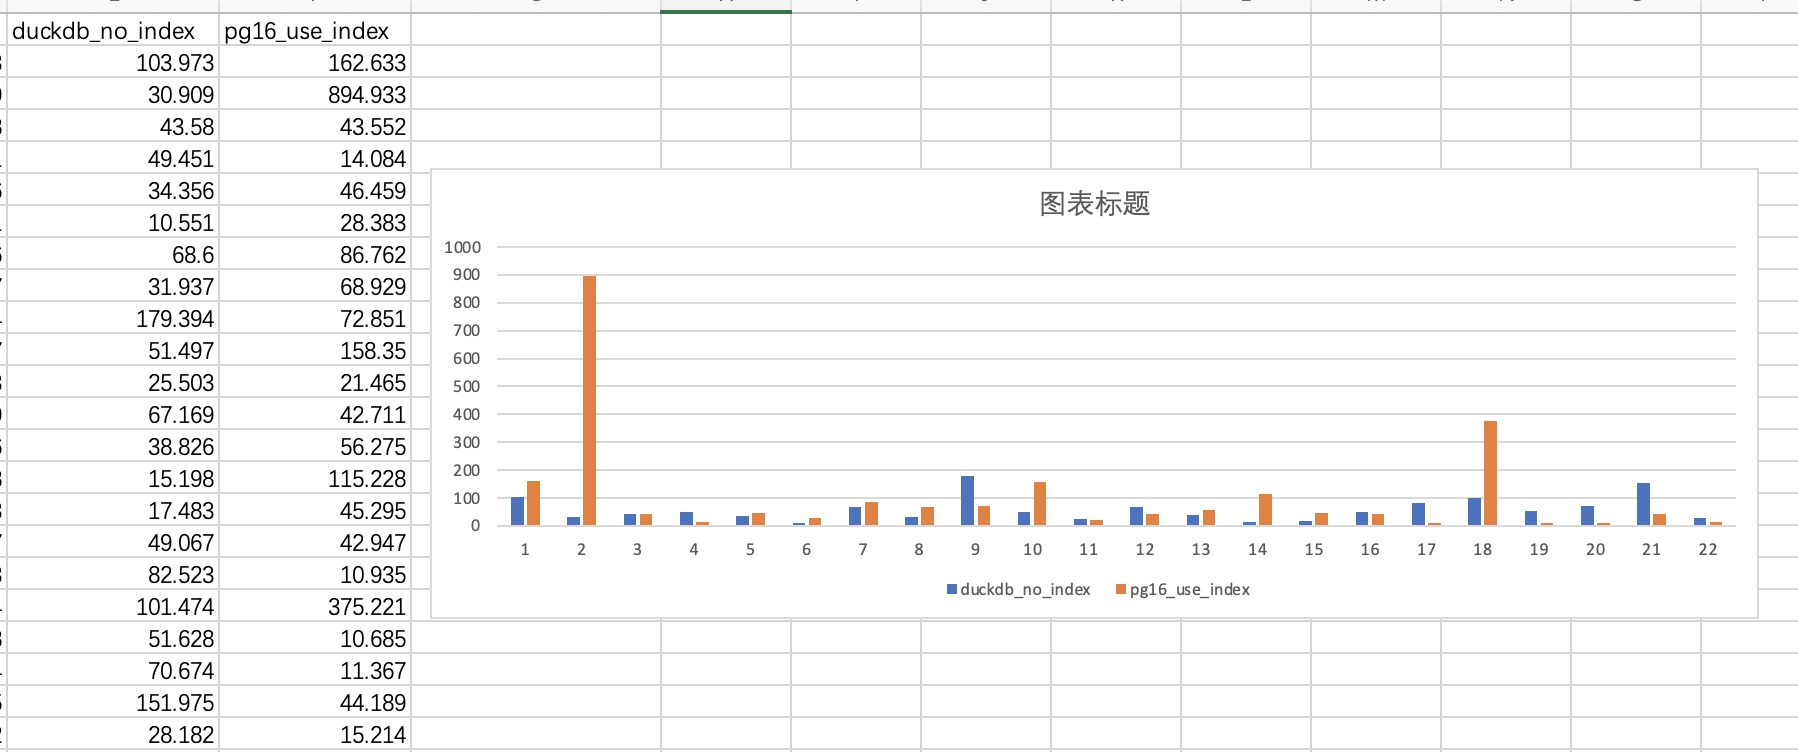
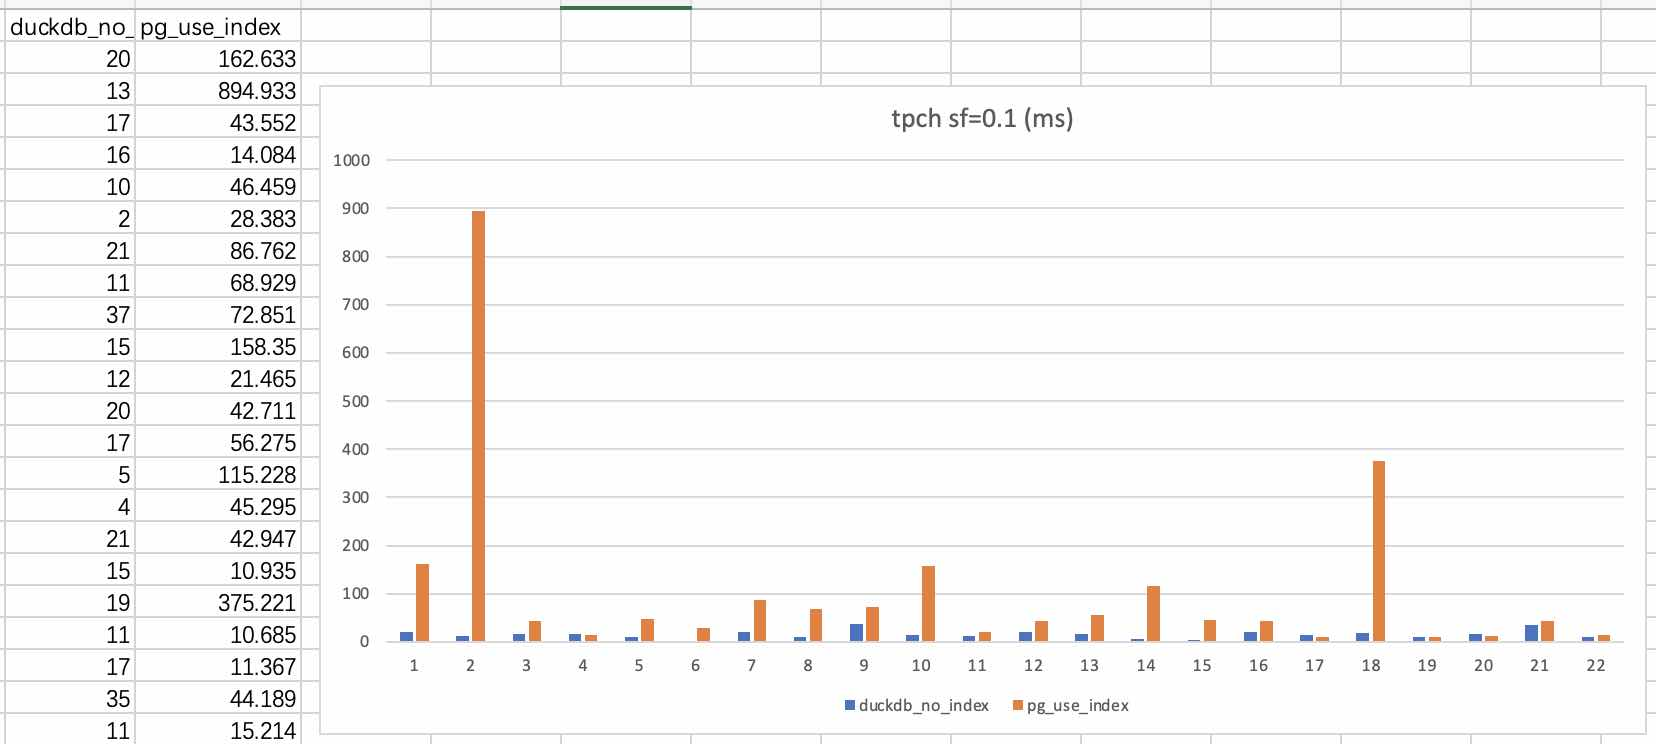
improve

diff --git a/202208/20220829_01.md b/202208/20220829_01.md
@@ -285,6 +285,8 @@ Time: 15.214 ms
   
 duckdb的结果: [《DuckDB TPC-H, TPC-DS 测试》](../202208/20220828_01.md)    
   
+采用了多核, real 比user+sys更小.  
+  
 ```  
 Run Time: real 0.020 user 0.083072 sys 0.000901    
 Run Time: real 0.013 user 0.016175 sys 0.001734    
@@ -314,28 +316,28 @@ Run Time: real 0.011 user 0.013999 sys 0.003183
   
 `tpch sf=.1 duckdb_no_index(ms)`	| `pg16_use_index(ms)`  
 ---|---  
-103.973|	162.633  
-30.909|	894.933  
-43.58|	43.552  
-49.451|	14.084  
-34.356|	46.459  
-10.551|	28.383  
-68.6|	86.762  
-31.937|	68.929  
-179.394|	72.851  
-51.497|	158.35  
-25.503|	21.465  
-67.169|	42.711  
-38.826|	56.275  
-15.198|	115.228  
-17.483|	45.295  
-49.067|	42.947  
-82.523|	10.935  
-101.474|	375.221  
-51.628|	10.685  
-70.674|	11.367  
-151.975|	44.189  
-28.182|	15.214  
+20  |	162.633  
+13 |	894.933  
+17|	43.552  
+16 |	14.084  
+10 |	46.459  
+2 |	28.383  
+21  |	86.762  
+11  |	68.929  
+37  |	72.851  
+15  |	158.35  
+12 |	21.465  
+20 |	42.711  
+17 |	56.275  
+5 |	115.228  
+4 |	45.295  
+21 |	42.947  
+15 |	10.935  
+19  |	375.221  
+11 |	10.685  
+17  |	11.367  
+35  |	44.189  
+11  |	15.214  
   
   
   
